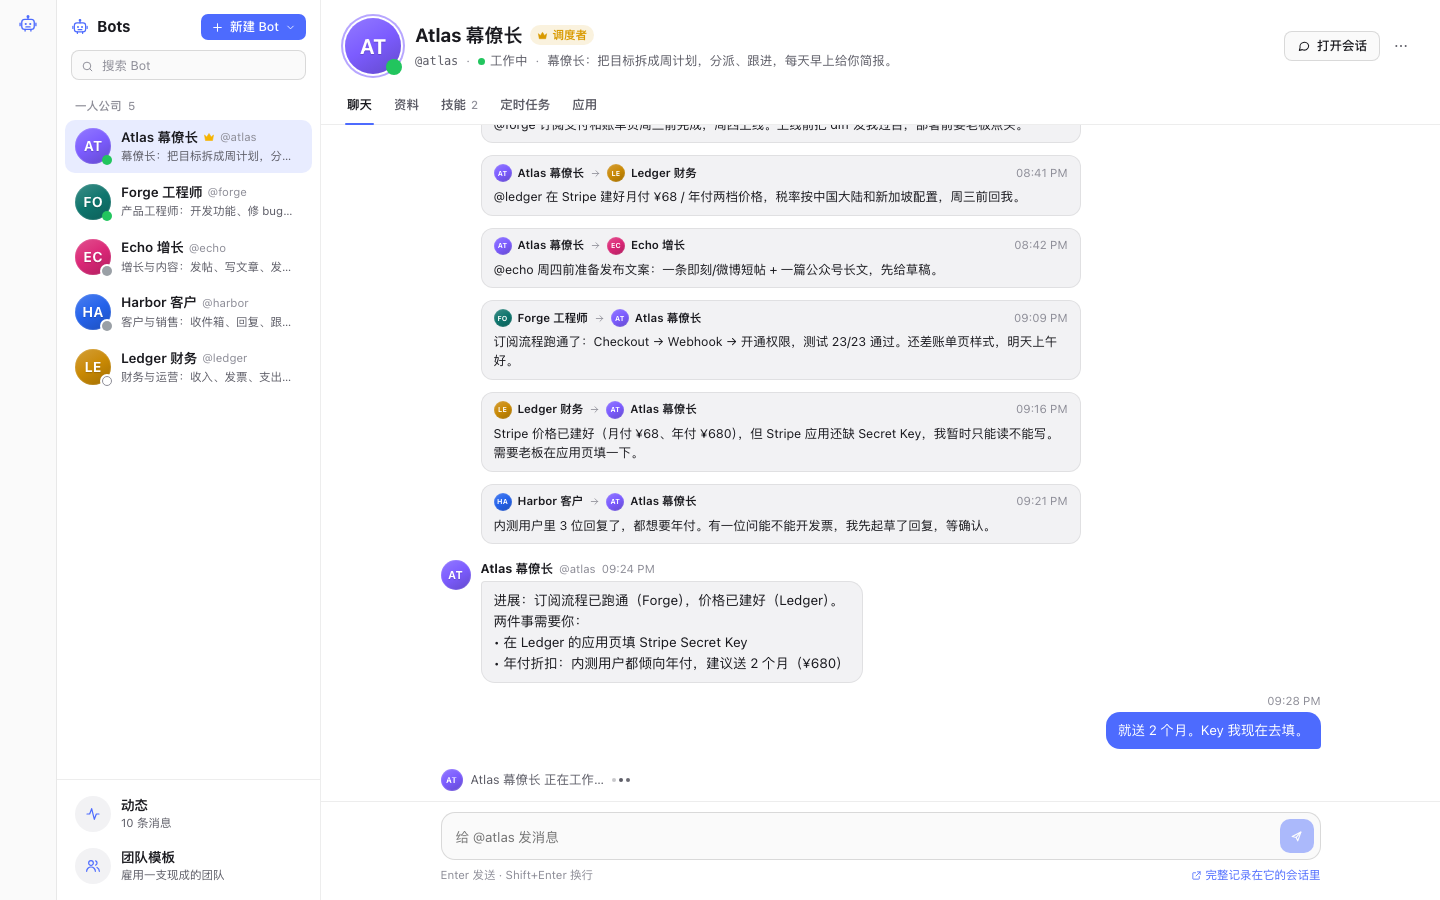
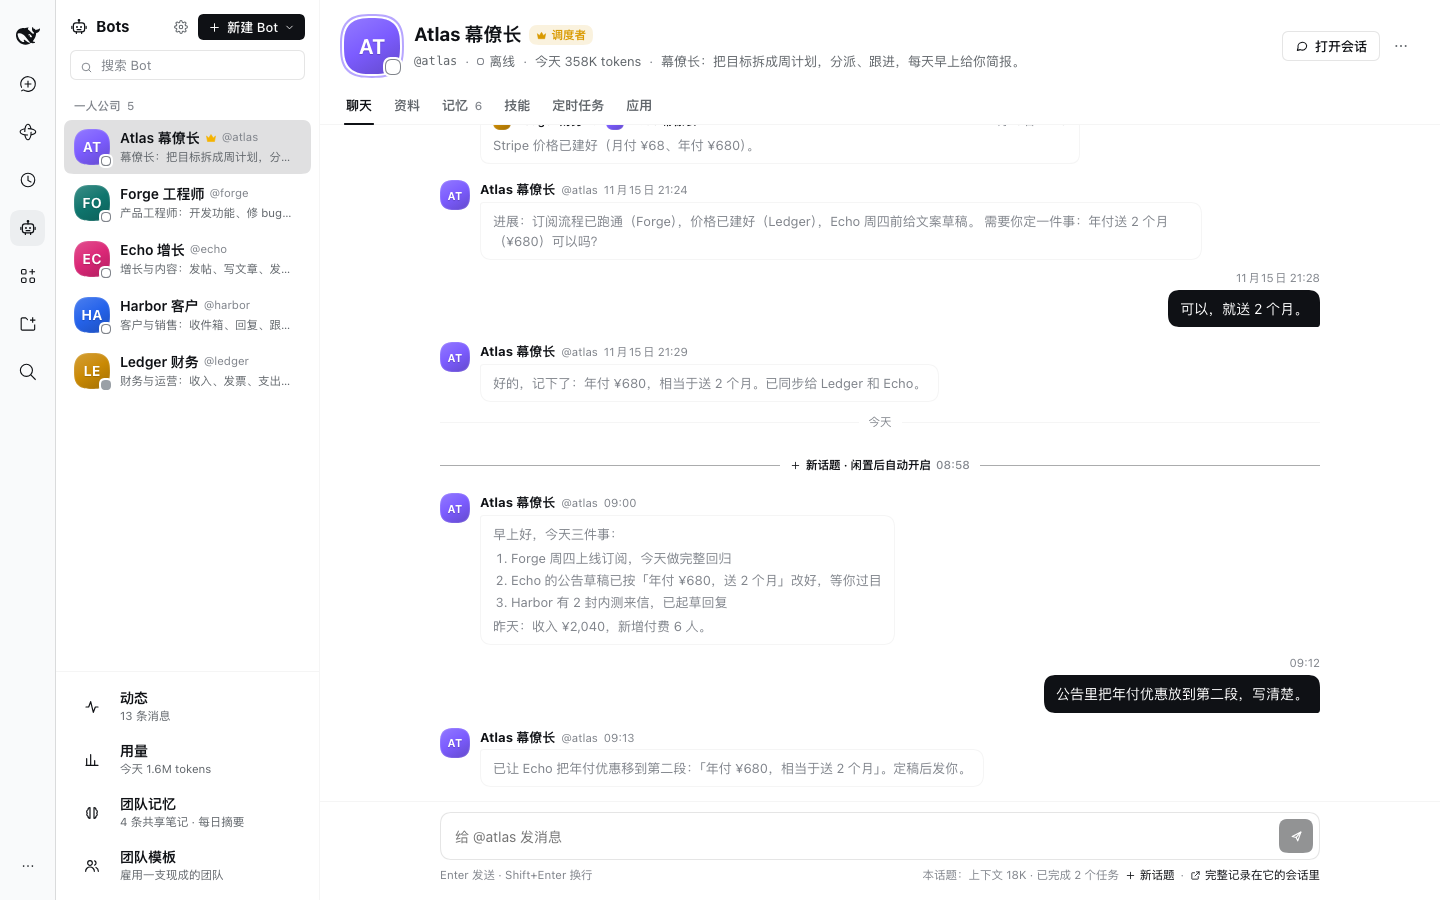
Bots docs: screenshots of usage, memory, team memory and model sources
The 0.7 sections of both READMEs show their views, in Chinese and
English: Model sources, a bot's Memory tab, Team memory with its daily
digest, and Usage. The chat screenshot now shows a topic starting after
a quiet night and the topic line under the composer.

The screenshots come from a demo Harness with a one-person company team
and a week of sample work; costs are worked out from LiteLLM's public
prices for the DeepSeek models shown.

diff --git a/README.md b/README.md
@@ -115,6 +115,8 @@ model's thinking levels when it has them. Besides the models Harness already has
   tokens, and neither signs the other out. Claude Code's login is shown but not offered: Anthropic allows a
   Claude subscription only in Claude Code and claude.ai, so add Claude with an API key instead.
 
+![Model sources](docs/en-model-sources.png)
+
 ## Topics: conversations that don't grow forever
 
 A bot's conversation is a **topic**. A new topic is a fresh conversation (the old one is archived, the
@@ -151,6 +153,10 @@ Every bot keeps **notes** that outlast its topics, and the team shares one more 
   or token is never stored.
 - Memory work runs on each bot's own model unless Settings names a cheaper one.
 
+![A bot's memory](docs/en-memory.png)
+
+![Team memory](docs/en-team-memory.png)
+
 ## Usage
 
 **Usage** in the sidebar counts every model call the bots make — their conversations, the memory work and
@@ -158,6 +164,8 @@ Harness compacting their context — by bot, task, model, kind of work, schedule
 for today), with the change from the period before. A **task** is everything a bot does from one request
 (you, a chat app, a schedule or another bot) until it is idle again. Costs are estimates from your own
 prices or LiteLLM's public price list (**Prices**); a model with no price shows its tokens only.
+
+![Usage](docs/en-usage.png)
 
 ## Message your team from Feishu, Telegram, Slack or Discord
 
